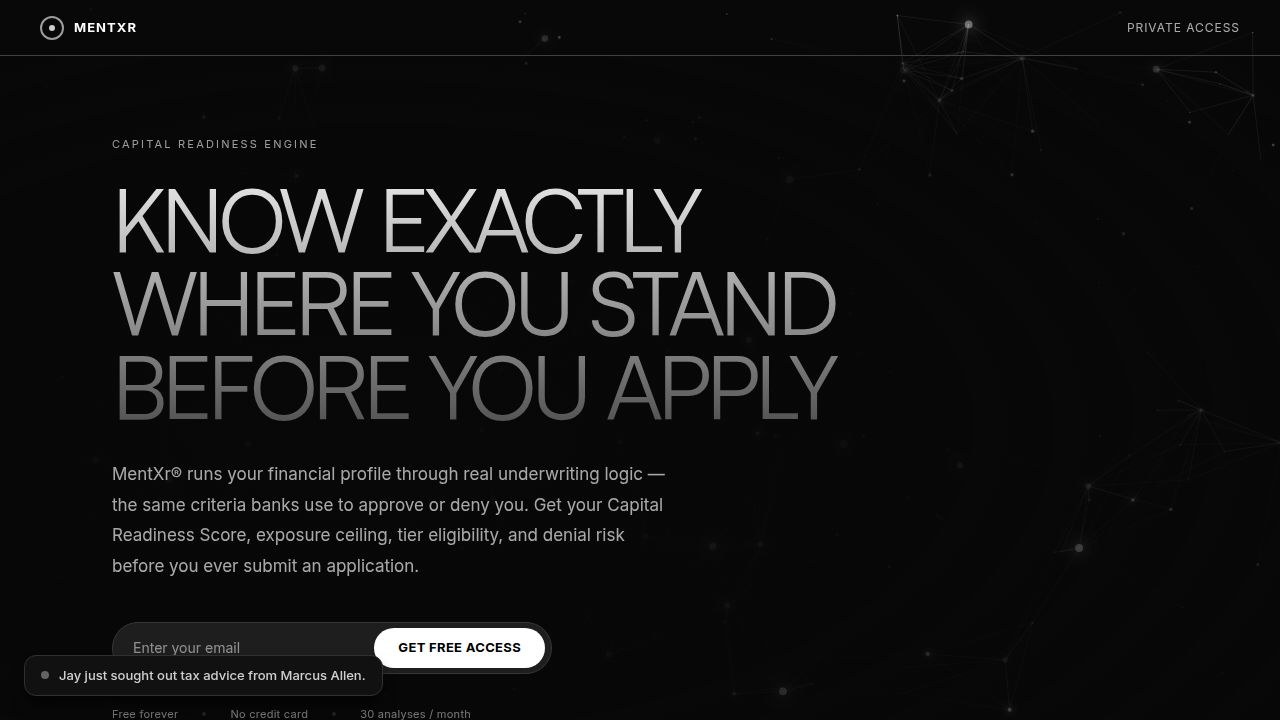
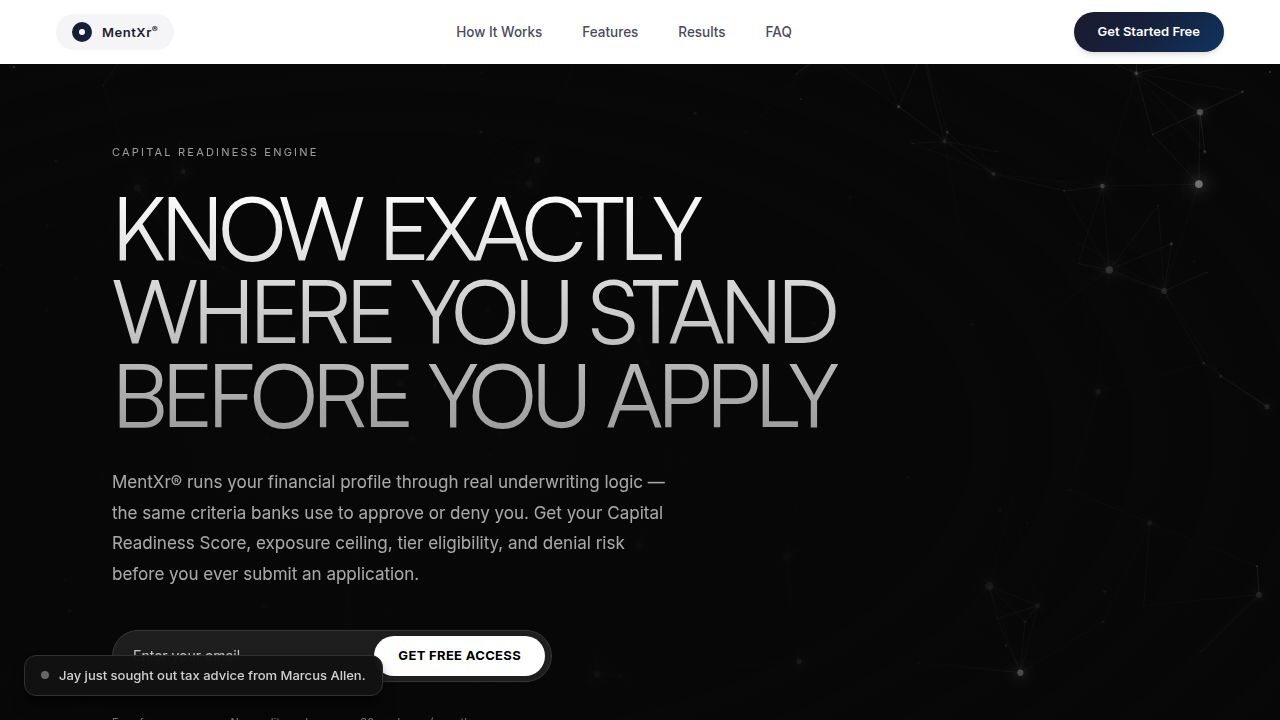
Update website navigation to a modern fintech style
Replaces the existing navigation bar with a new sticky, full-width white navigation bar. Adds smooth scrolling behavior and scroll margins to sections for better navigation experience. Includes navigation links and a call-to-action button with a gradient fill.

Replit-Commit-Author: Agent
Replit-Commit-Session-Id: 2c3f3ef7-54b9-4245-bf4b-6062f077a077
Replit-Commit-Checkpoint-Type: full_checkpoint
Replit-Commit-Event-Id: 279cd5ab-e480-4a84-bd56-4bb897ba0bdf
Replit-Commit-Screenshot-Url: https://storage.googleapis.com/screenshot-production-us-central1/6cb68abc-05c5-46e4-b0ad-0de8a6638ddd/2c3f3ef7-54b9-4245-bf4b-6062f077a077/UwhUmQO
Replit-Helium-Checkpoint-Created: true

diff --git a/client/src/pages/landing.tsx b/client/src/pages/landing.tsx
@@ -268,15 +268,30 @@ export default function LandingPage() {
         <span className="text-[12px] sm:text-[13px] text-white/80 font-medium whitespace-nowrap">{proofMessages[proofIndex]}</span>
       </div>
 
-      <nav className="relative z-20 flex items-center justify-between px-6 sm:px-10 h-14 border-b border-[#404040]">
-        <div className="flex items-center gap-2.5">
-          <div className="w-6 h-6 rounded-full border-2 border-white/60 flex items-center justify-center">
-            <span className="w-1.5 h-1.5 rounded-full bg-white/80"></span>
+      <nav className="sticky top-0 z-50 w-full bg-white" data-testid="nav-top">
+        <div className="flex items-center justify-between h-[64px] px-6 sm:px-10 lg:px-14">
+          <div className="flex items-center gap-2.5 bg-[#F5F5F7] rounded-full px-4 py-2" data-testid="nav-logo">
+            <div className="w-5 h-5 rounded-full bg-gradient-to-br from-[#1a1a2e] to-[#16213e] flex items-center justify-center">
+              <span className="w-1.5 h-1.5 rounded-full bg-white"></span>
+            </div>
+            <span className="text-[13px] font-semibold tracking-[0.04em] text-[#1a1a2e]">MentXr<span className="text-[9px] align-super">®</span></span>
           </div>
-          <span className="text-[13px] font-bold tracking-[0.08em] text-white uppercase">MentXr</span>
-        </div>
-        <div className="flex items-center gap-6">
-          <span className="text-[12px] tracking-[0.08em] text-white/65 uppercase hidden sm:block">Private Access</span>
+
+          <div className="hidden md:flex items-center gap-10">
+            <a href="#how-it-works" className="text-[13.5px] font-medium text-[#4a4a5a] hover:text-[#1a1a2e] transition-colors" data-testid="link-how-it-works">How It Works</a>
+            <a href="#features" className="text-[13.5px] font-medium text-[#4a4a5a] hover:text-[#1a1a2e] transition-colors" data-testid="link-features">Features</a>
+            <a href="#results" className="text-[13.5px] font-medium text-[#4a4a5a] hover:text-[#1a1a2e] transition-colors" data-testid="link-results">Results</a>
+            <a href="#faq" className="text-[13.5px] font-medium text-[#4a4a5a] hover:text-[#1a1a2e] transition-colors" data-testid="link-faq">FAQ</a>
+          </div>
+
+          <button
+            onClick={() => document.querySelector<HTMLInputElement>('[data-testid="input-email"]')?.focus()}
+            className="rounded-full px-6 py-2.5 text-[13px] font-semibold text-white shadow-md hover:shadow-lg transition-all duration-200 hover:scale-[1.02]"
+            style={{ background: 'linear-gradient(135deg, #1a1a2e 0%, #16213e 50%, #0f3460 100%)' }}
+            data-testid="button-get-started"
+          >
+            Get Started Free
+          </button>
         </div>
       </nav>
 
@@ -383,7 +398,7 @@ export default function LandingPage() {
       </section>
 
       {/* ═══════════════ 4. HOW IT WORKS ═══════════════ */}
-      <section className="relative z-10 px-6 sm:px-12 md:px-20 py-20 sm:py-28 border-t border-[#404040]">
+      <section id="how-it-works" className="relative z-10 px-6 sm:px-12 md:px-20 py-20 sm:py-28 border-t border-[#404040]">
         <div className="absolute inset-0" style={sectionBg} />
         <div className="relative max-w-[800px]">
           <SectionLabel>How It Works</SectionLabel>
@@ -412,7 +427,7 @@ export default function LandingPage() {
       </section>
 
       {/* ═══════════════ 5. FUNDING OUTCOMES ═══════════════ */}
-      <section className="relative z-10 px-6 sm:px-12 md:px-20 py-20 sm:py-28 border-t border-[#404040]">
+      <section id="features" className="relative z-10 px-6 sm:px-12 md:px-20 py-20 sm:py-28 border-t border-[#404040]">
         <div className="absolute inset-0" style={sectionBg} />
         <div className="relative max-w-[900px]">
           <SectionLabel>What You Get</SectionLabel>
@@ -442,7 +457,7 @@ export default function LandingPage() {
       </section>
 
       {/* ═══════════════ 6. SOCIAL PROOF ═══════════════ */}
-      <section className="relative z-10 px-6 sm:px-12 md:px-20 py-20 sm:py-28 border-t border-[#404040]">
+      <section id="results" className="relative z-10 px-6 sm:px-12 md:px-20 py-20 sm:py-28 border-t border-[#404040]">
         <div className="absolute inset-0" style={sectionBg} />
         <div className="relative max-w-[900px]">
           <SectionLabel>Results</SectionLabel>
@@ -656,7 +671,7 @@ export default function LandingPage() {
       </section>
 
       {/* ═══════════════ 12. FAQ / OBJECTION HANDLING ═══════════════ */}
-      <section className="relative z-10 px-6 sm:px-12 md:px-20 py-20 sm:py-28 border-t border-[#404040]">
+      <section id="faq" className="relative z-10 px-6 sm:px-12 md:px-20 py-20 sm:py-28 border-t border-[#404040]">
         <div className="absolute inset-0" style={sectionBg} />
         <div className="relative max-w-[700px]">
           <SectionLabel>FAQ</SectionLabel>

diff --git a/client/src/index.css b/client/src/index.css
@@ -1,6 +1,14 @@
 @import "tailwindcss";
 @import "tw-animate-css";
 
+html {
+  scroll-behavior: smooth;
+}
+
+section[id] {
+  scroll-margin-top: 72px;
+}
+
 @custom-variant dark (&:is(.dark *));
 
 @theme inline {
